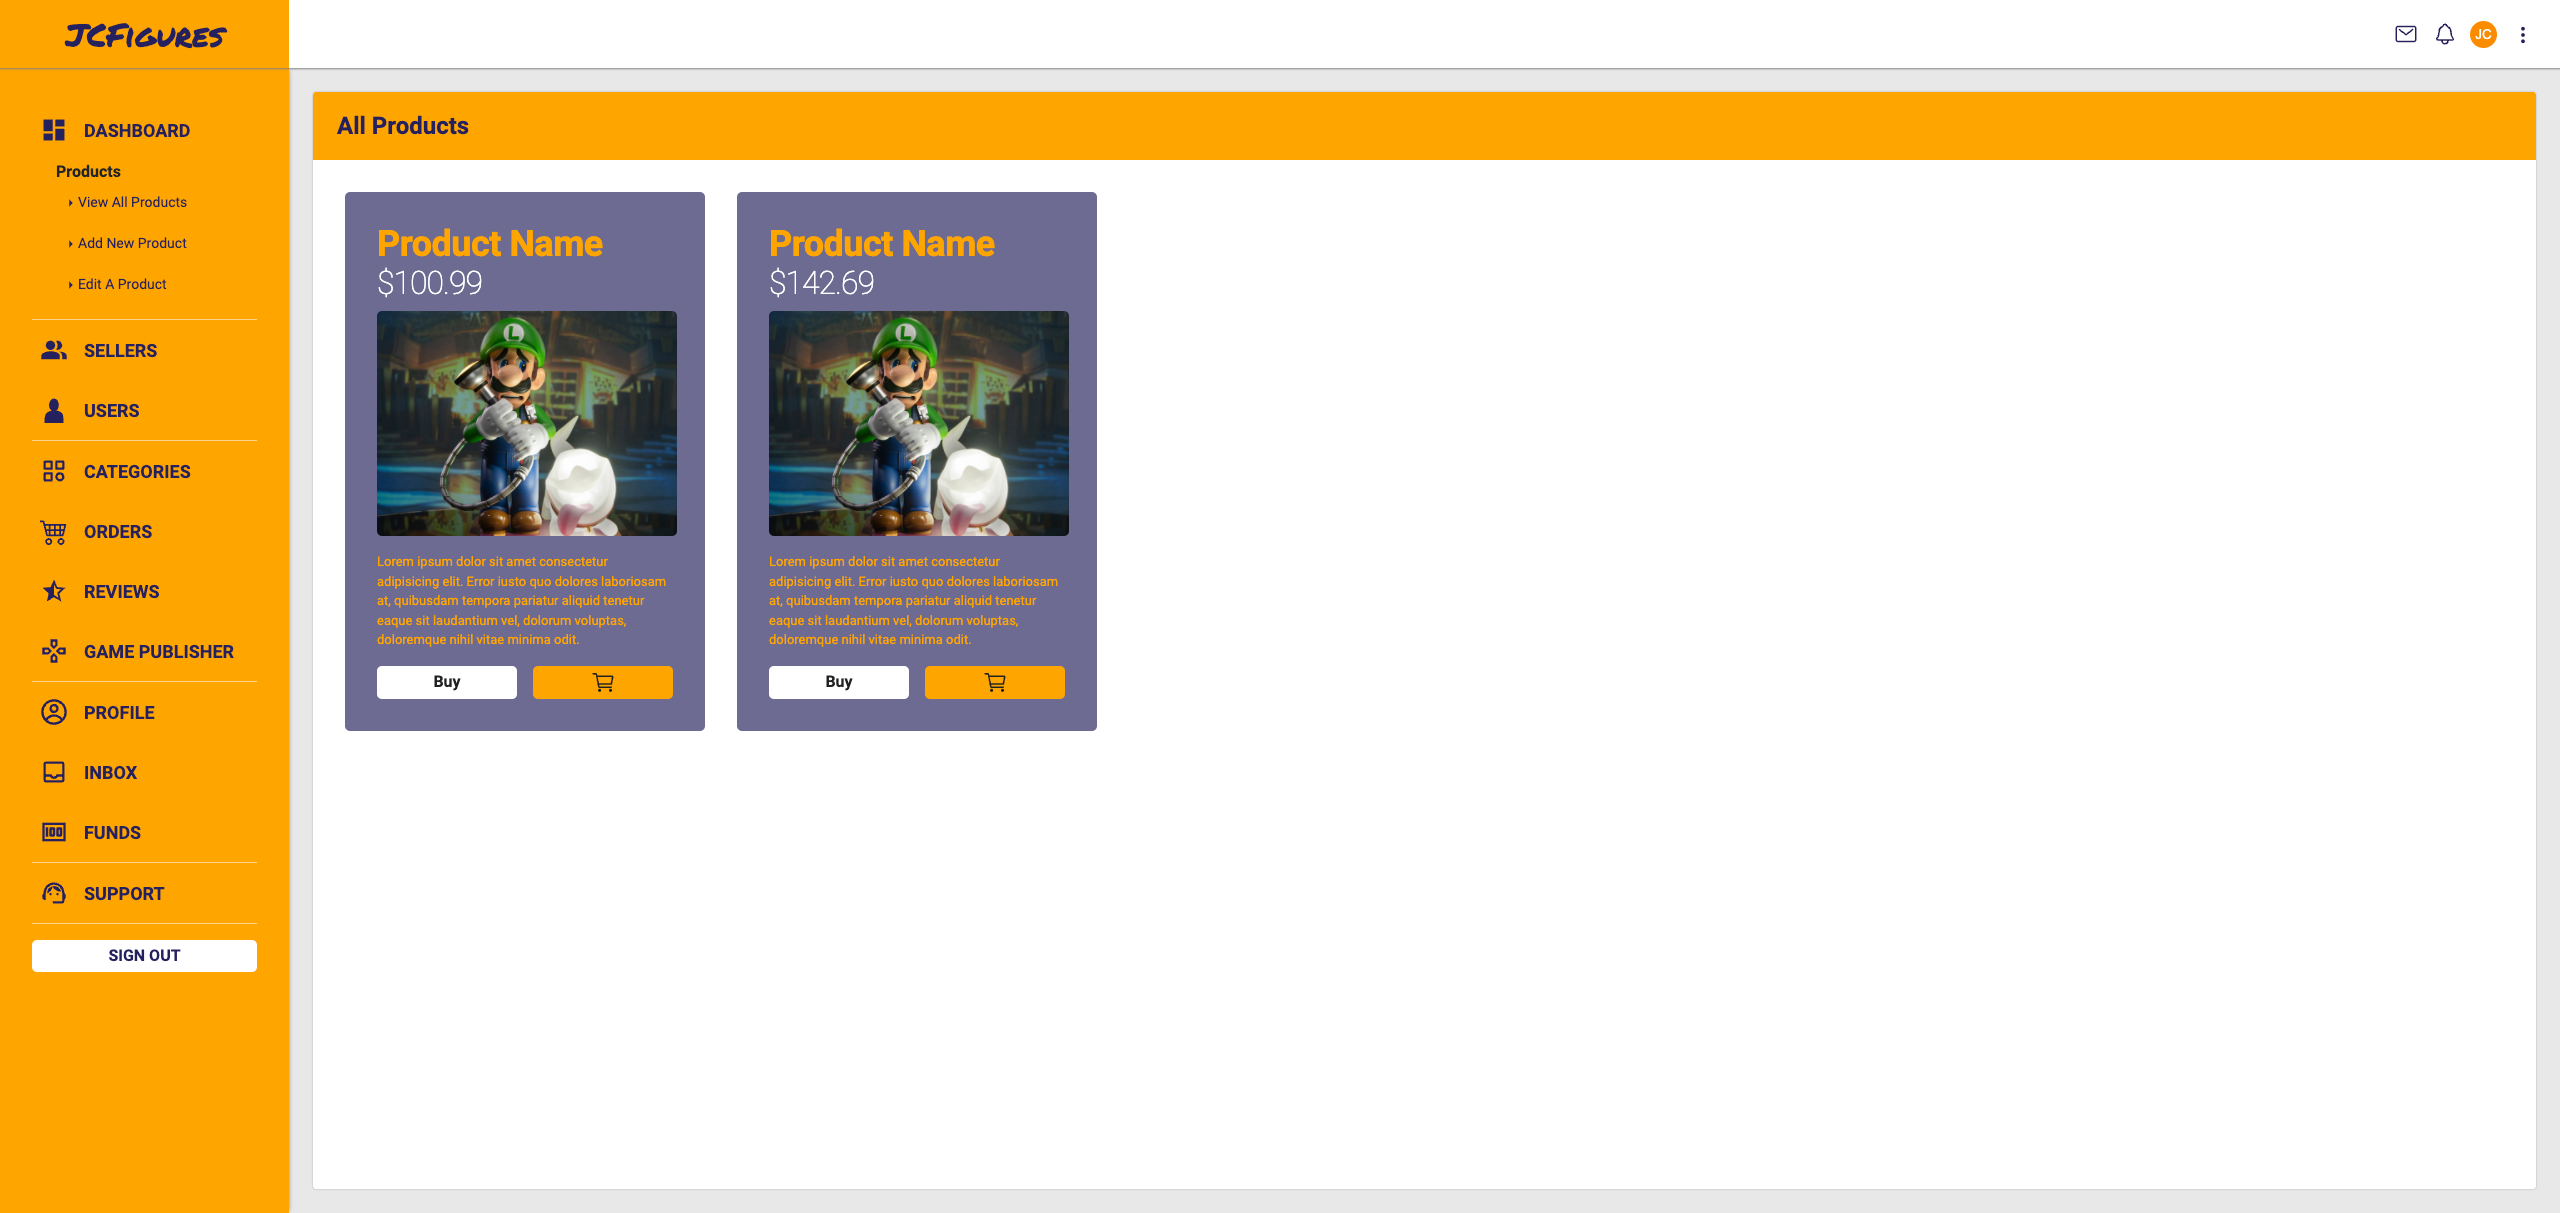
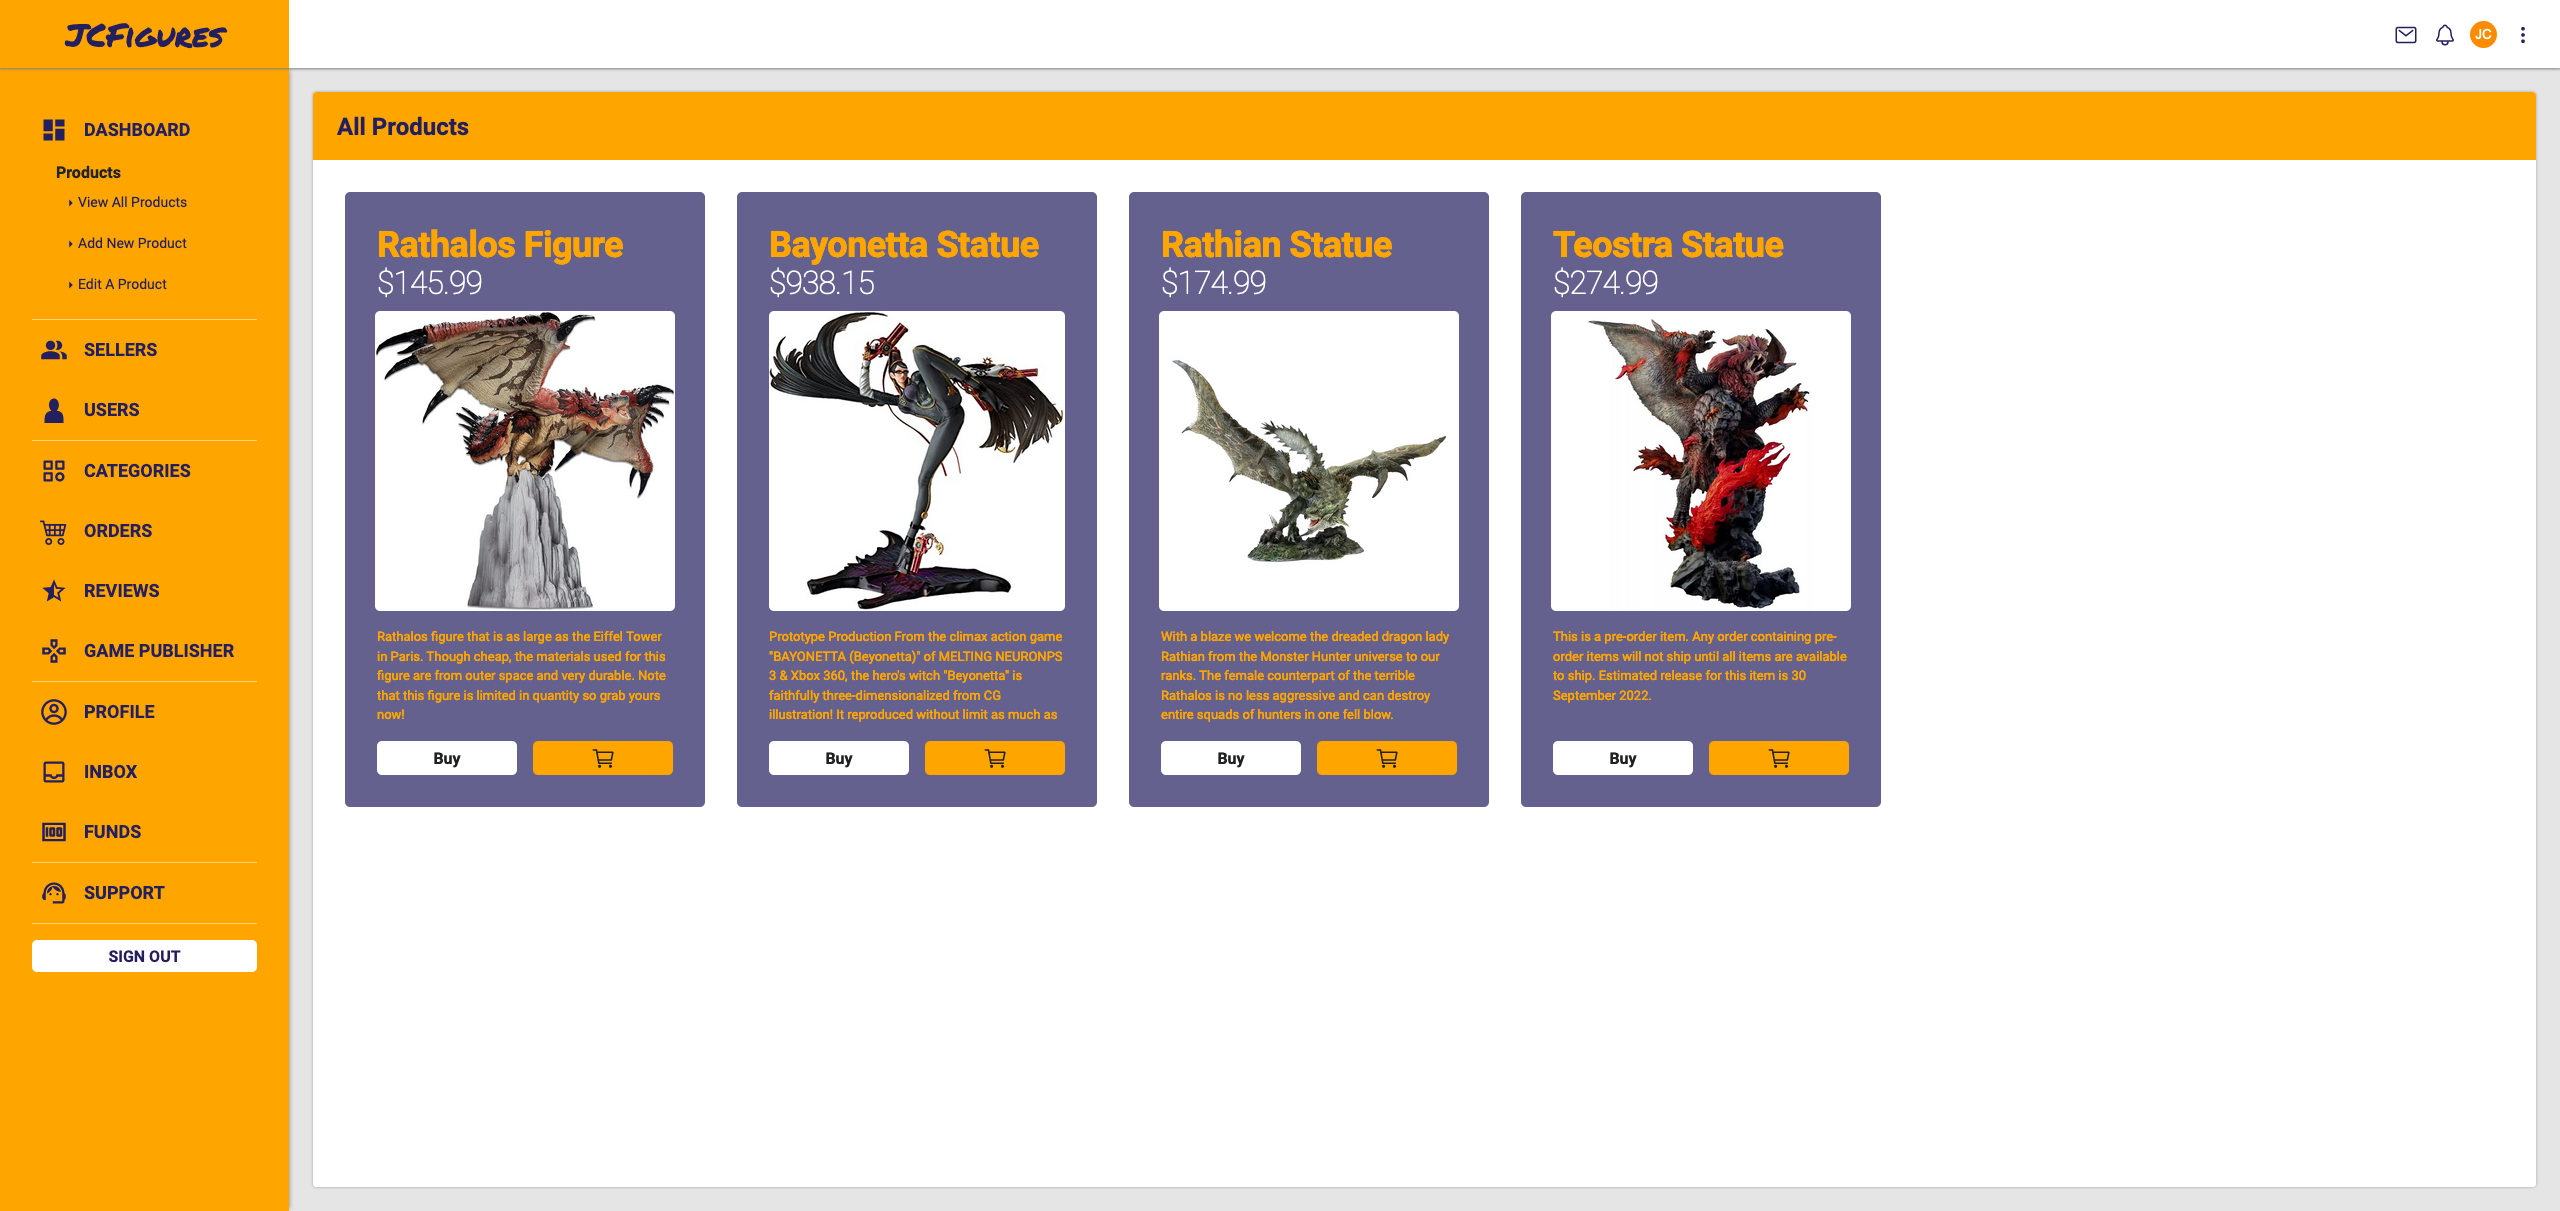
Product cards added

diff --git a/src/components/panels/AllProductPanel.js b/src/components/panels/AllProductPanel.js
@@ -1,29 +1,14 @@
 import React from "react";
 
+import { useGetProducts } from "hooks/useGetProduct";
+
 // styles
-import {
-    PanelStyles,
-    PanelBody,
-    PanelHeader,
-    PanelContentSample,
-    ProductView,
-    ProductImage,
-    ProductName,
-    ProductPrice,
-    ProductDescription,
-    BuySection,
-} from "./styles";
-
-// ui
-import { AddToCartBtn, BuyProductBtn } from "ui/buttons";
-
-// react-icons
-import * as IoIcons from "react-icons/io5";
-
-// preview image
-import ProductPreview from "assets/images/luigi.jpeg";
+import { PanelStyles, PanelBody, PanelHeader, PanelControl } from "./styles";
+import { ProductCard } from "components/products/ProductCard";
 
 function AllProductPanel({ title, ...props }) {
+    const productData = useGetProducts();
+
     return (
         <>
             <PanelStyles>
@@ -31,63 +16,18 @@ function AllProductPanel({ title, ...props }) {
                     <h2>{title || "Display Panel"}</h2>
                 </PanelHeader>
                 <PanelBody>
-                    <PanelContentSample>
-                        {/* sample product card */}
-                        <ProductView>
-                            <ProductName>Product Name</ProductName>
-                            <ProductPrice>$100.99</ProductPrice>
-                            <ProductImage>
-                                <img
-                                    src={ProductPreview}
-                                    alt="placeholder"
-                                    width="320"
-                                    height="184"
+                    <PanelControl>
+                        {productData ? (
+                            productData.map((product) => (
+                                <ProductCard
+                                    product={product}
+                                    key={product.uid}
                                 />
-                            </ProductImage>
-                            <ProductDescription>
-                                Lorem ipsum dolor sit amet consectetur
-                                adipisicing elit. Error iusto quo dolores
-                                laboriosam at, quibusdam tempora pariatur
-                                aliquid tenetur eaque sit laudantium vel,
-                                dolorum voluptas, doloremque nihil vitae minima
-                                odit.
-                            </ProductDescription>
-                            <BuySection>
-                                <BuyProductBtn>Buy</BuyProductBtn>
-                                <AddToCartBtn>
-                                    <IoIcons.IoCartOutline size={25} />
-                                </AddToCartBtn>
-                            </BuySection>
-                        </ProductView>
-
-                        <ProductView>
-                            <ProductName>Product Name</ProductName>
-                            <ProductPrice>$142.69</ProductPrice>
-                            <ProductImage>
-                                <img
-                                    src={ProductPreview}
-                                    alt="placeholder"
-                                    width="320"
-                                    height="184"
-                                />
-                            </ProductImage>
-                            <ProductDescription>
-                                Lorem ipsum dolor sit amet consectetur
-                                adipisicing elit. Error iusto quo dolores
-                                laboriosam at, quibusdam tempora pariatur
-                                aliquid tenetur eaque sit laudantium vel,
-                                dolorum voluptas, doloremque nihil vitae minima
-                                odit.
-                            </ProductDescription>
-                            <BuySection>
-                                <BuyProductBtn>Buy</BuyProductBtn>
-                                <AddToCartBtn>
-                                    <IoIcons.IoCartOutline size={25} />
-                                </AddToCartBtn>
-                            </BuySection>
-                        </ProductView>
-                        {/* end sample product card */}
-                    </PanelContentSample>
+                            ))
+                        ) : (
+                            <p>no data loaded</p>
+                        )}
+                    </PanelControl>
                 </PanelBody>
             </PanelStyles>
         </>

diff --git a/src/components/panels/styles.js b/src/components/panels/styles.js
@@ -26,70 +26,9 @@ const PanelBody = styled.div`
     margin: ${(props) => props.margin || "2rem"};
 `;
 
-const PanelContentSample = styled.div`
+const PanelControl = styled.div`
     display: flex;
     gap: 2rem;
 `;
 
-// static styles for now
-const ProductView = styled.div`
-    padding: 2rem;
-    background-color: rgba(36, 31, 94, 0.7);
-    border-radius: 5px;
-    max-width: 360px;
-`;
-
-const ProductImage = styled.div`
-    display: flex;
-    justify-content: center;
-    align-items: center;
-    width: 300px;
-    img {
-        width: 100%;
-        height: auto;
-        border-radius: 5px;
-        margin-bottom: 1rem;
-    }
-`;
-
-const ProductName = styled.h2`
-    font-size: 2.25rem;
-    font-weight: 700;
-    line-height: 2.5rem;
-    letter-spacing: -0.5px;
-    color: ${themeColor};
-`;
-
-const ProductPrice = styled.p`
-    font-size: 2rem;
-    font-weight: 100;
-    letter-spacing: -1px;
-    color: ${lightColor};
-    margin-top: -0.3rem;
-    margin-bottom: 0.25rem;
-`;
-
-const ProductDescription = styled.p`
-    font-size: 13px;
-    color: ${themeColor};
-    margin-bottom: 1rem;
-    word-wrap: break-word;
-`;
-
-const BuySection = styled.div`
-    display: flex;
-    gap: 1rem;
-`;
-
-export {
-    PanelStyles,
-    PanelBody,
-    PanelHeader,
-    PanelContentSample,
-    ProductView,
-    ProductImage,
-    ProductName,
-    ProductPrice,
-    ProductDescription,
-    BuySection,
-};
+export { PanelStyles, PanelBody, PanelHeader, PanelControl };

diff --git a/src/components/products/ProductCard/ProductCard.js b/src/components/products/ProductCard/ProductCard.js
@@ -1,0 +1,49 @@
+import React from "react";
+
+// ui
+import { AddToCartBtn, BuyProductBtn } from "ui/buttons";
+
+// react-icons
+import * as IoIcons from "react-icons/io5";
+
+import {
+    ProductCardStyles,
+    ProductView,
+    ProductImage,
+    ProductName,
+    ProductPrice,
+    ProductDescription,
+    BuySection,
+} from "./styles";
+
+function ProductCard({ children, product, ...props }) {
+    const { productName, productPrice, imageUrl, productDescription } = {
+        ...product,
+    };
+
+    return (
+        <ProductCardStyles {...props}>
+            <ProductView>
+                <ProductName>{productName}</ProductName>
+                <ProductPrice>${productPrice}</ProductPrice>
+                <ProductImage>
+                    <img
+                        src={imageUrl}
+                        alt="placeholder"
+                        width="320"
+                        height="184"
+                    />
+                </ProductImage>
+                <ProductDescription>{productDescription}</ProductDescription>
+                <BuySection>
+                    <BuyProductBtn>Buy</BuyProductBtn>
+                    <AddToCartBtn>
+                        <IoIcons.IoCartOutline size={25} />
+                    </AddToCartBtn>
+                </BuySection>
+            </ProductView>
+        </ProductCardStyles>
+    );
+}
+
+export default ProductCard;

diff --git a/src/components/products/ProductCard/styles.js b/src/components/products/ProductCard/styles.js
@@ -1,0 +1,66 @@
+import styled from "styled-components";
+import { themeColor, lightColor } from "styles/variables";
+
+const ProductCardStyles = styled.div``;
+
+const ProductView = styled.div`
+    padding: 2rem;
+    background-color: rgba(36, 31, 94, 0.7);
+    border-radius: 5px;
+    max-width: 360px;
+`;
+
+const ProductImage = styled.div`
+    display: flex;
+    justify-content: center;
+    align-items: center;
+    img {
+        width: 300px;
+        height: 300px;
+        border-radius: 5px;
+        margin-bottom: 1rem;
+    }
+`;
+
+const ProductName = styled.h2`
+    font-size: 2.25rem;
+    font-weight: 700;
+    line-height: 2.5rem;
+    letter-spacing: -0.5px;
+    color: ${themeColor};
+`;
+
+const ProductPrice = styled.p`
+    font-size: 2rem;
+    font-weight: 100;
+    letter-spacing: -1px;
+    color: ${lightColor};
+    margin-top: -0.3rem;
+    margin-bottom: 0.25rem;
+`;
+
+const ProductDescription = styled.p`
+    font-size: 13px;
+    color: ${themeColor};
+    margin-bottom: 1rem;
+    width: 296px;
+    height: 98px;
+    word-wrap: break-word;
+    overflow: hidden;
+    text-overflow: ellipsis;
+`;
+
+const BuySection = styled.div`
+    display: flex;
+    gap: 1rem;
+`;
+
+export {
+    ProductCardStyles,
+    ProductView,
+    ProductImage,
+    ProductName,
+    ProductPrice,
+    ProductDescription,
+    BuySection,
+};

diff --git a/src/hooks/useGetProduct.js b/src/hooks/useGetProduct.js
@@ -1,0 +1,21 @@
+import { useState, useEffect } from "react";
+import { ref, get } from "firebase/database";
+
+import { db } from "libs/firebase";
+
+function useGetProducts() {
+    const [productData, setProductData] = useState(null);
+
+    useEffect(() => {
+        async function getProductData() {
+            const productRef = ref(db, "products");
+            const productDataSnapShot = await get(productRef);
+            setProductData(Object.values(productDataSnapShot.val()));
+        }
+        getProductData();
+    }, []);
+
+    return productData;
+}
+
+export { useGetProducts };

diff --git a/src/components/products/ProductCard/index.js b/src/components/products/ProductCard/index.js
@@ -1,0 +1,1 @@
+export { default as ProductCard } from "./ProductCard";
